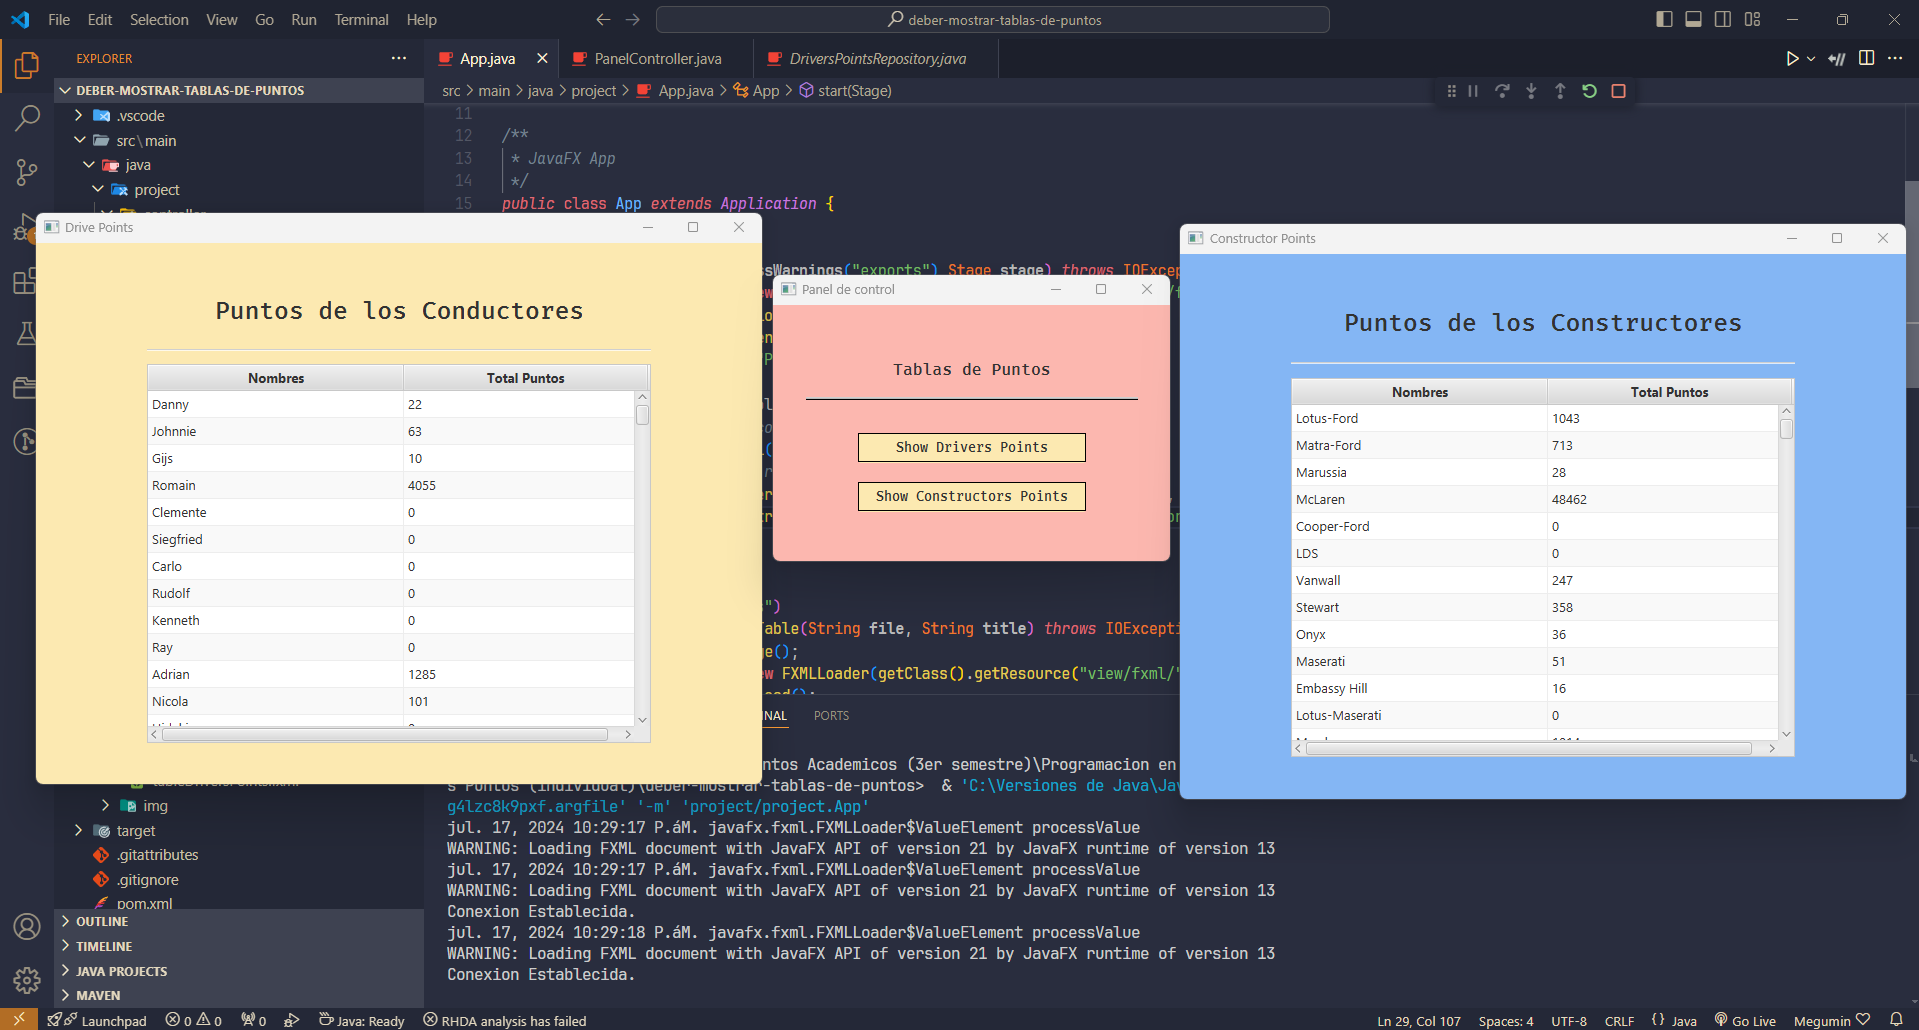
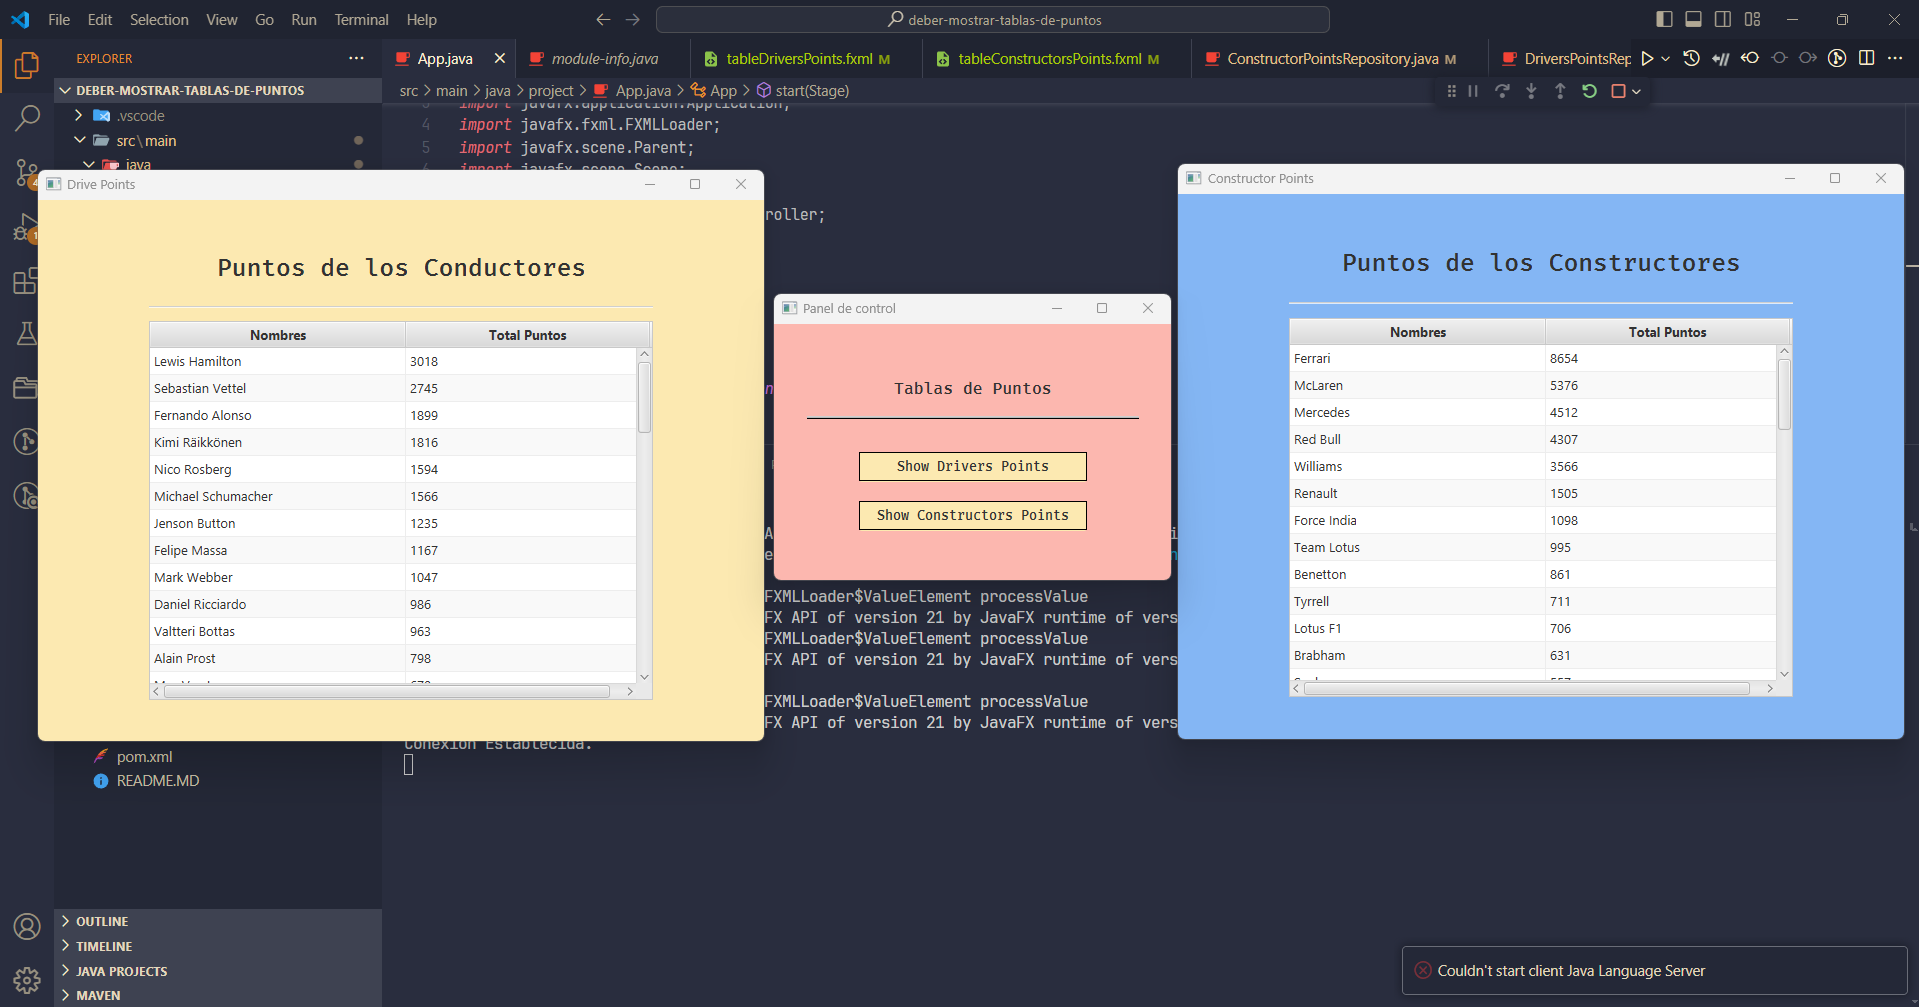
Actualizando consultas sql y readme

diff --git a/src/main/java/project/repository/DriversPointsRepository.java b/src/main/java/project/repository/DriversPointsRepository.java
@@ -20,17 +20,25 @@ public class DriversPointsRepository {
             Connection conn = dbConexion.EstablecerConexion("test_database", "postgres", "593321", "postgresql");
 
             // Ejecutar la consulta
-            String sql = "SELECT d.forename, SUM(ds.points) AS total_points\n"
-                    + "FROM drivers d\n"
-                    + "JOIN driver_standings ds ON d.driver_id = ds.driver_id\n"
-                    + "GROUP BY d.forename";
+            String sql = "SELECT " +
+                    "    d.forename || ' ' || d.surname AS driver_name, " +
+                    "    SUM(r.points) AS total_points " +
+                    "FROM " +
+                    "    results r " +
+                    "JOIN " +
+                    "    drivers d ON r.driver_id = d.driver_id " +
+                    "GROUP BY " +
+                    "    d.forename, d.surname " +
+                    "ORDER BY " +
+                    "    total_points DESC " +
+                    "LIMIT 50;";
             PreparedStatement statement = conn.prepareStatement(sql);
 
             ResultSet rs = statement.executeQuery();
 
             // Procesar los resultados
             while (rs.next()) {
-                String forename = rs.getString("forename");
+                String forename = rs.getString("driver_name");
                 int totalPoints = rs.getInt("total_points");
 
                 // Crear objeto Drivers usando el constructor adecuado

diff --git a/src/main/java/project/repository/ConstructorPointsRepository.java b/src/main/java/project/repository/ConstructorPointsRepository.java
@@ -20,10 +20,13 @@ public class ConstructorPointsRepository {
             Connection conn = dbConexion.EstablecerConexion("test_database", "postgres", "593321", "postgresql");
 
             // Ejecutar la consulta
-            String sql = "SELECT c.name, SUM(cs.points) AS total_points\n"
-                    + "FROM constructors c\n"
-                    + "JOIN constructor_standings cs ON c.constructor_id = cs.constructor_id\n"
-                    + "GROUP BY c.name";
+            String sql = "SELECT d.name, " +
+                    "SUM(r.points) AS total_points " +
+                    "FROM results as r " +
+                    "JOIN constructors as d ON r.constructor_id = d.constructor_id " +
+                    "GROUP BY d.name " +
+                    "ORDER BY total_points DESC " +
+                    "LIMIT 50;";
             PreparedStatement statement = conn.prepareStatement(sql);
 
             ResultSet rs = statement.executeQuery();
